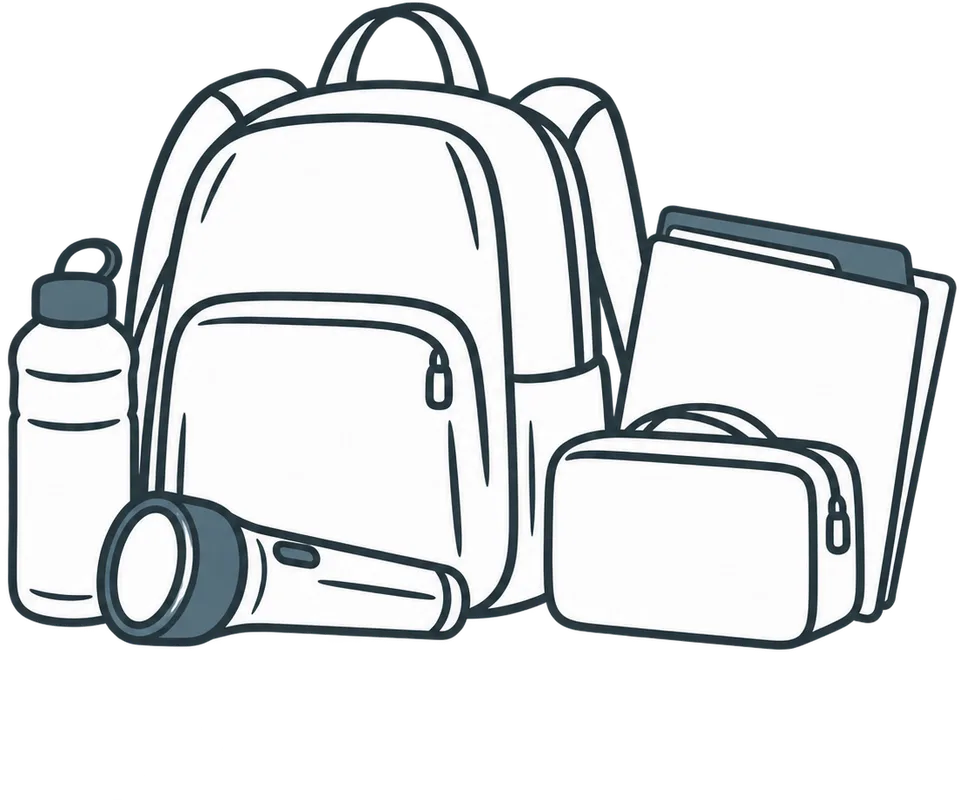
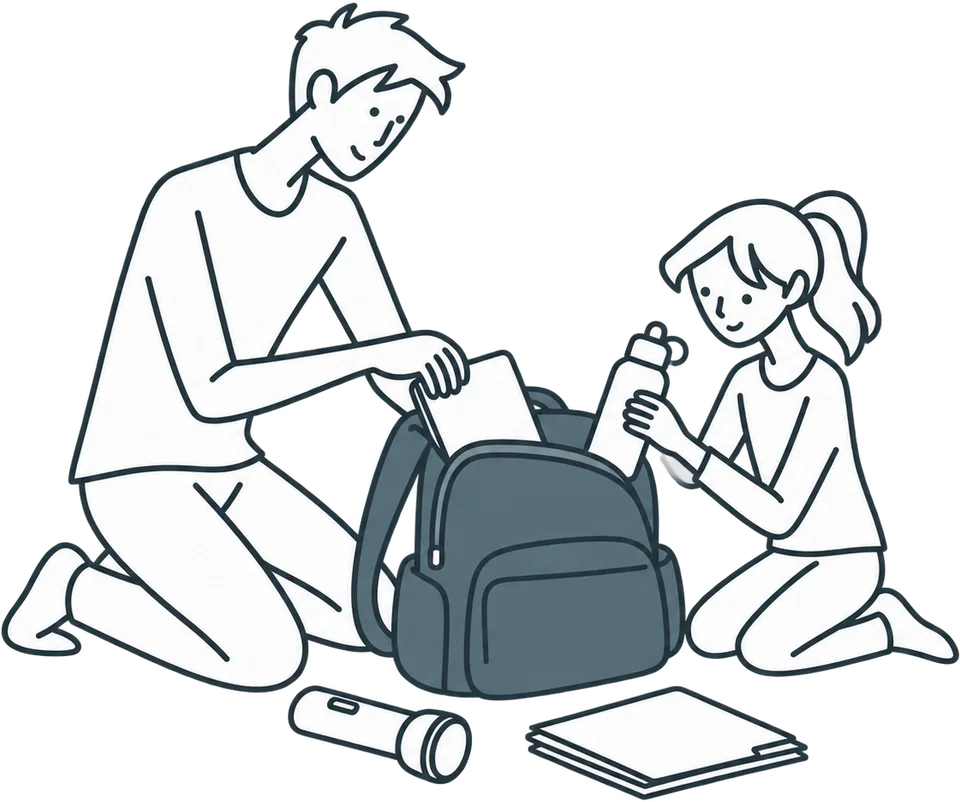
feat: use chosen guide illustrations in carousel prototype

diff --git a/context/foundation/ilustracje/style.md b/context/foundation/ilustracje/style.md
@@ -61,7 +61,7 @@ Potem: `npm run illustrations:sheet -- context/foundation/ilustracje/kierunki-v1
 
 ## Ścieżka poradnika — propozycja do akceptacji
 
-Poradnik po pierwszym wejściu: **5 kart do przeklikania**, jedna karta = jedna core funkcja z [roadmapy](../roadmap.md), w kolejności przepływu MVP z PRD. Copy osobno; tu tylko sceny. Prototyp do przeklikania: `/prototyp/poradnik` (`src/pages/prototyp/poradnik.astro`, tylko na tym branchu, nielinkowany); karty 1–3 mają na razie zastępcze obrazy z rund eksploracji.
+Poradnik po pierwszym wejściu: **5 kart do przeklikania**, jedna karta = jedna core funkcja z [roadmapy](../roadmap.md), w kolejności przepływu MVP z PRD. Copy osobno; tu tylko sceny. Prototyp do przeklikania: `/prototyp/poradnik` (`src/pages/prototyp/poradnik.astro`, tylko na tym branchu, nielinkowany); wszystkie 5 kart ma wybrane ilustracje.
 
 | Karta | Funkcja (roadmapa)                          | Co ma zrozumieć użytkownik                    | Scena (`Styl: D`)                                                                                                                                        | Obiekt w stali |
 | ----- | ------------------------------------------- | --------------------------------------------- | -------------------------------------------------------------------------------------------------------------------------------------------------------- | -------------- |
@@ -89,6 +89,4 @@ Rodzina spójna: twarz c3, włosy konturem, ta sama grubość kreski we wszystki
 | 4     | **do powtórki** | brak obiektu w stali (telefon jest drobny i ciemny), „schron” wygląda jak przystanek; scena czyta się jak spacer z telefonem |
 | 5     | **c1**          | babcia czytelna (siwy kok); w c2 wygląda na młodą kobietę                                                                    |
 
-**Karta 4 — powtórka (2 kandydatów, `karta-4-c3.png`, `-c4.png`):** łączy się z kartą 3 — prowadzenie do tego samego miejsca spotkania.
-
-> An adult walks calmly along a dashed route line drawn on the ground, holding a phone at chest height, towards a bench under a tree in the distance. The phone is a clearly visible solid steel blue shape (#536B75), larger than in a typical scene; it is the only steel object. No buildings, no signs.
+**Wybór człowieka (2026-10-03):** 1-c1, 2-c2, 3-c2, 4-c1, 5-c1 — karta 4 bez powtórki. Wyeksportowane do prototypu (`public/prototyp/poradnik/karta-<N>.webp`).
